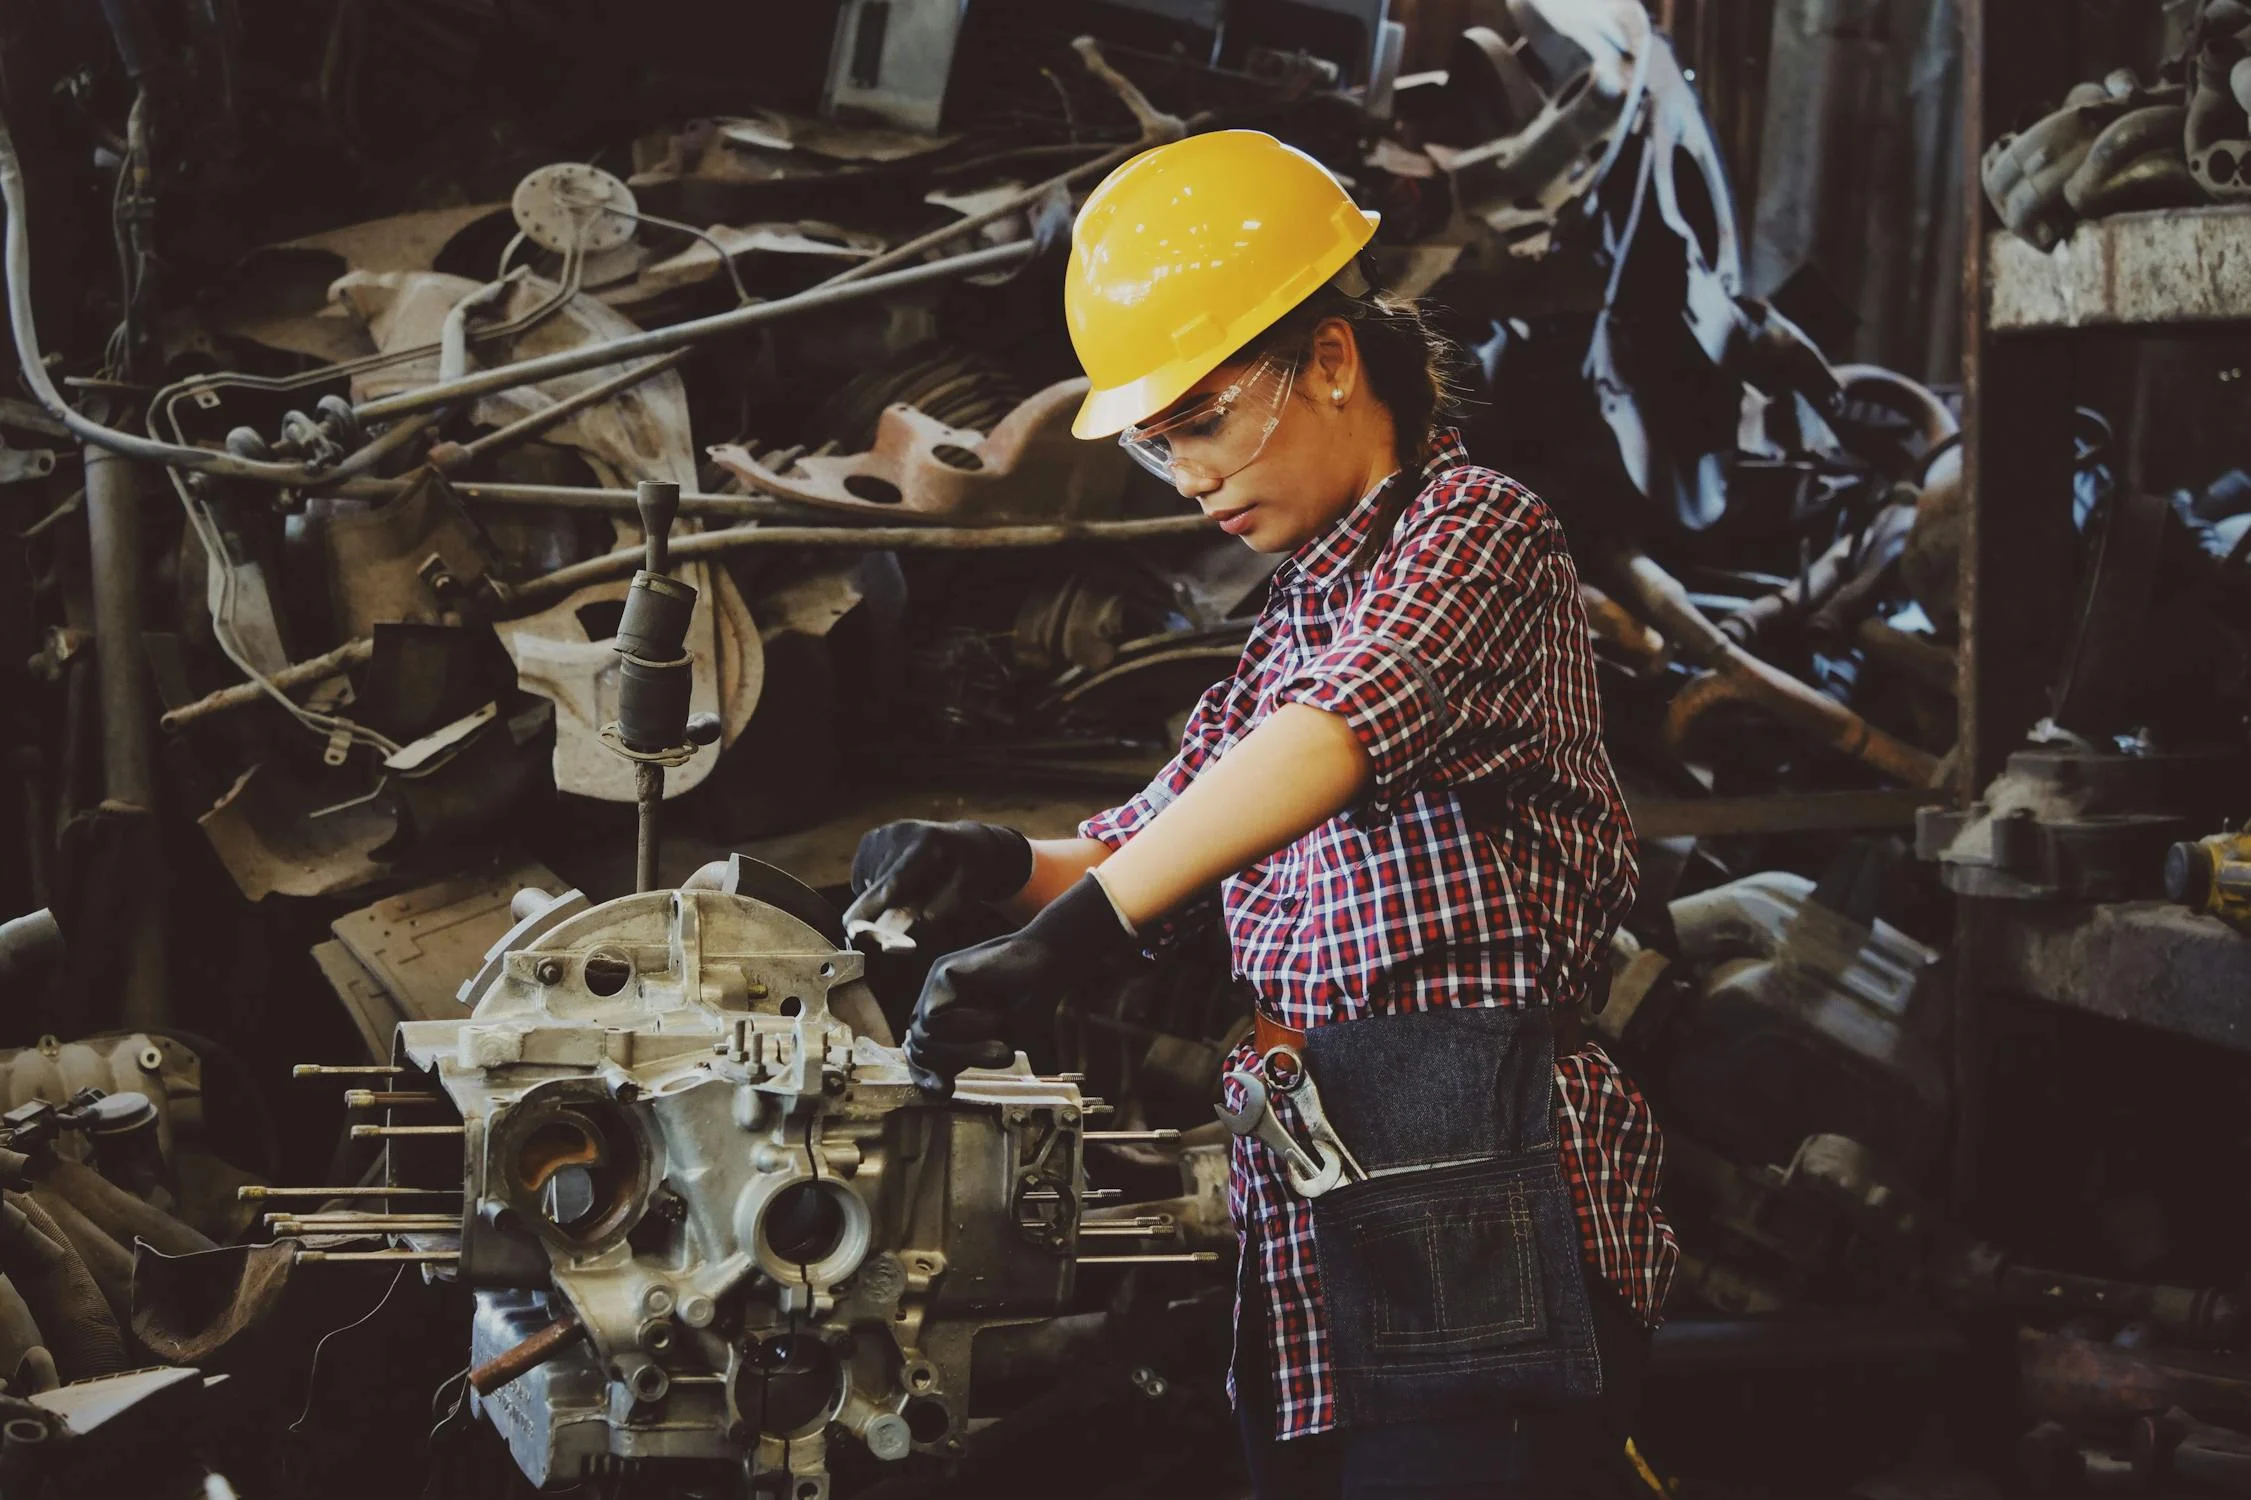
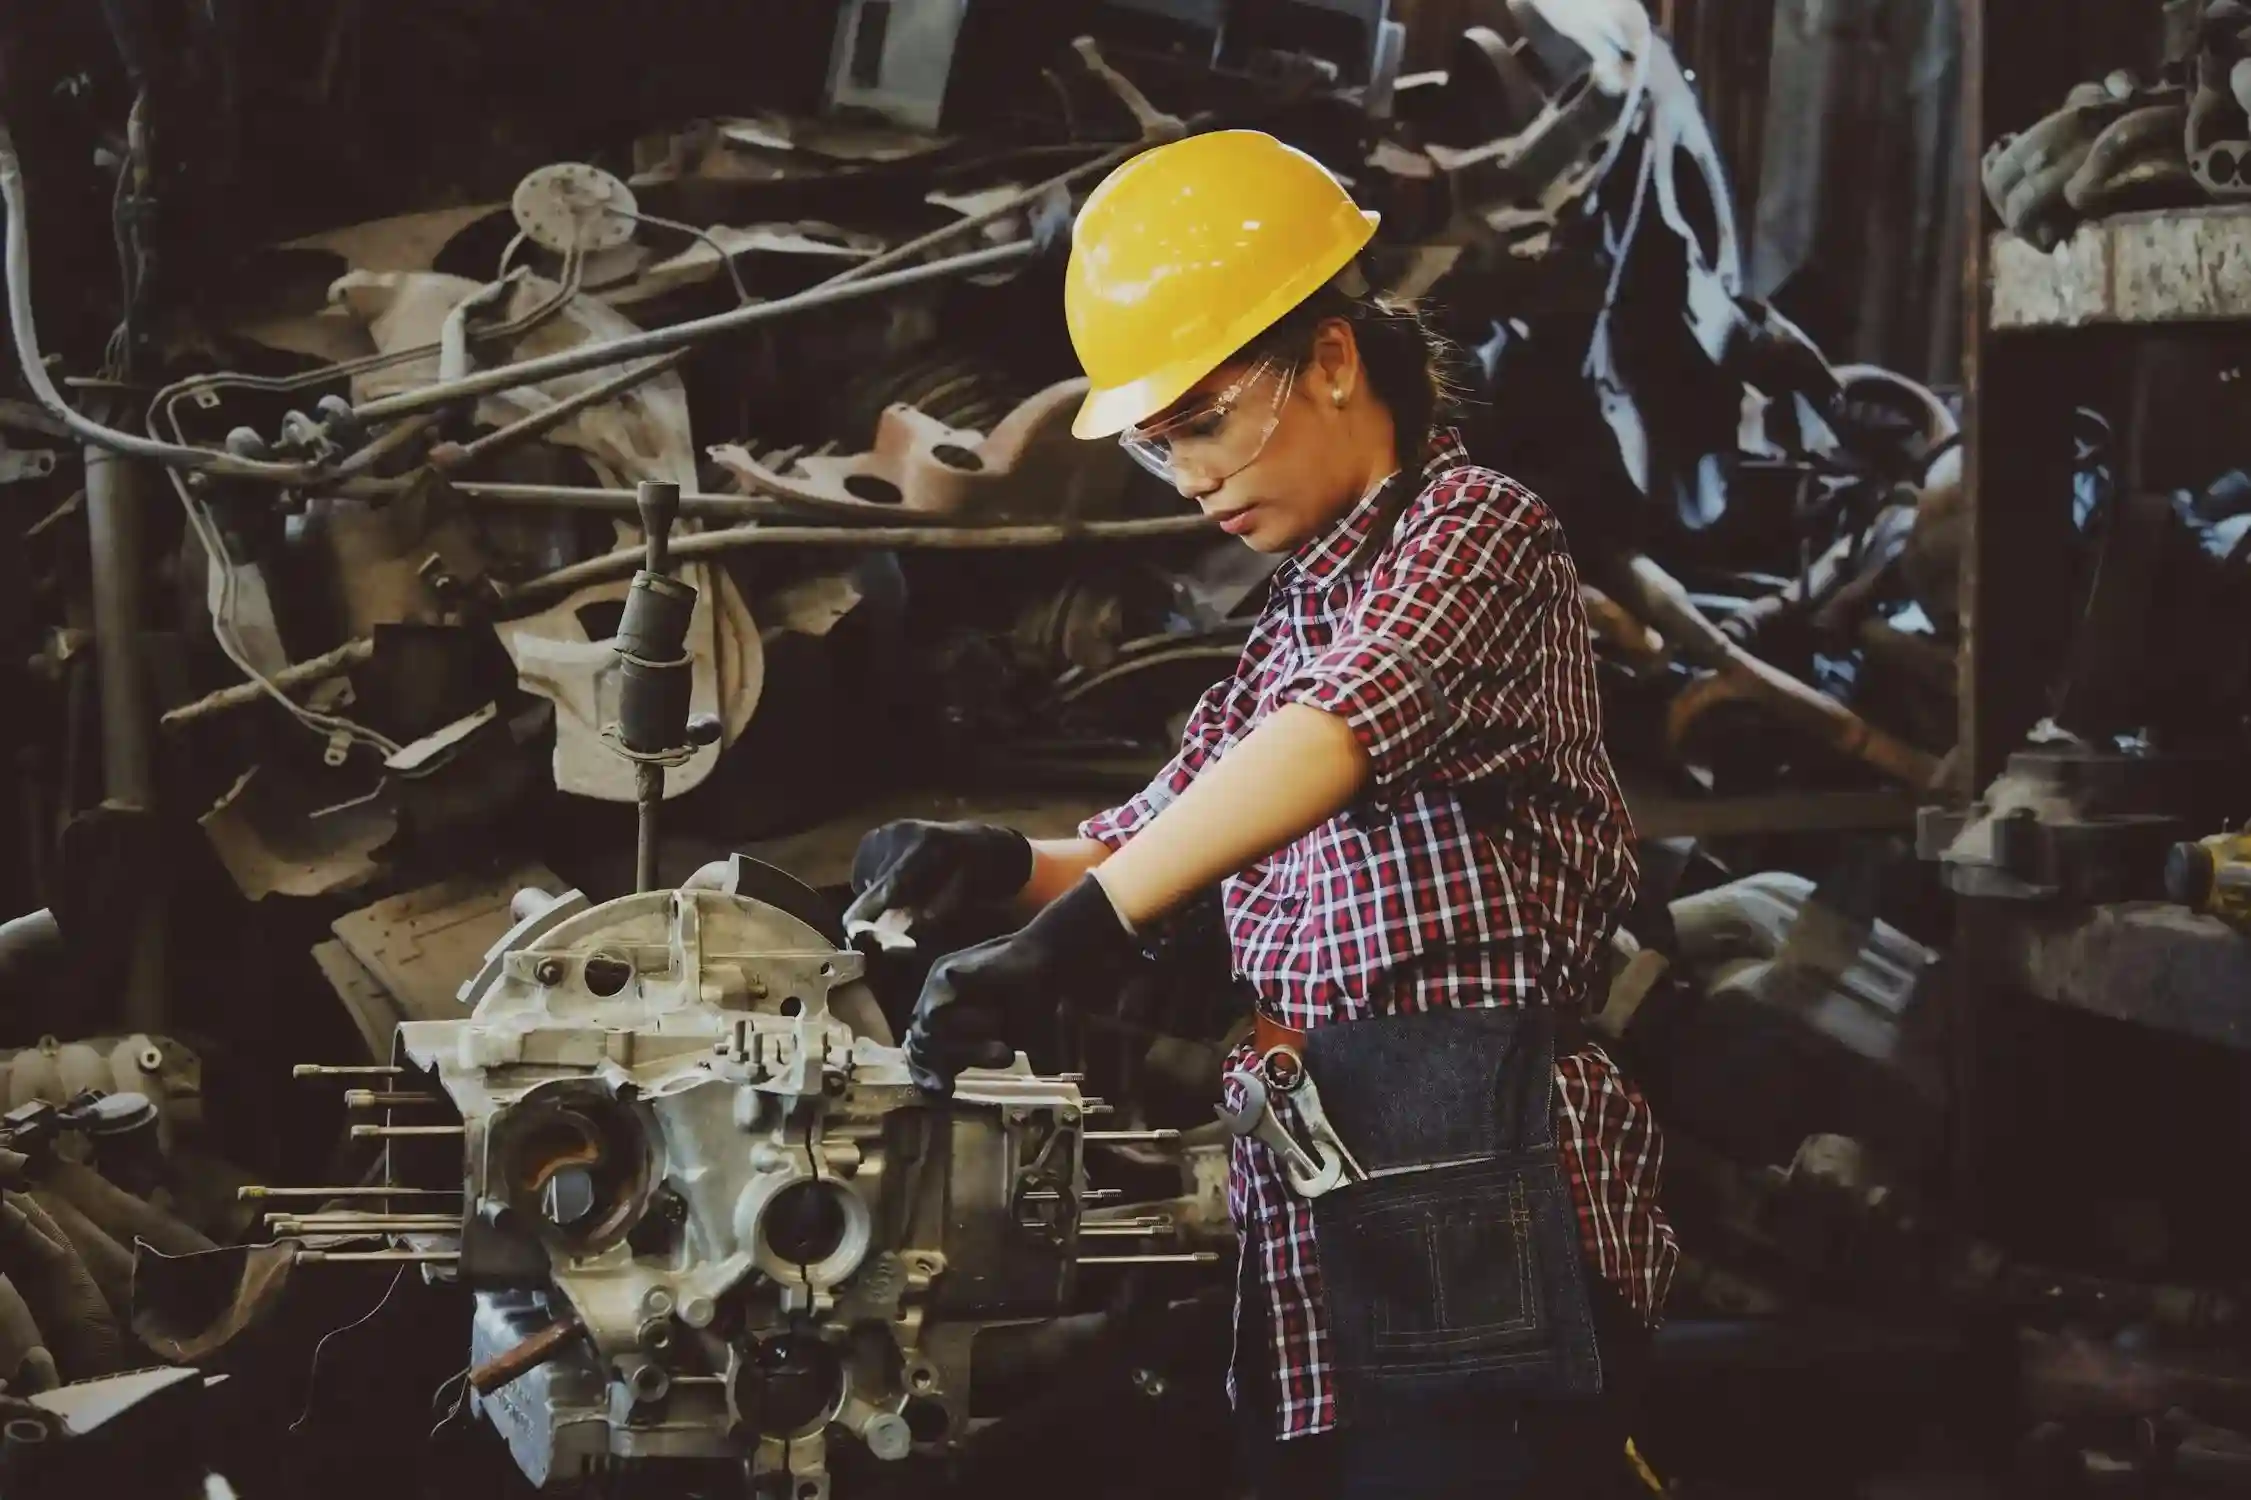
blog revalidate api and images compressed

diff --git a/src/sanity/env.ts b/src/sanity/env.ts
@@ -2,13 +2,13 @@ export const apiVersion =
   process.env.NEXT_PUBLIC_SANITY_API_VERSION || "2025-06-21";
 
 export const dataset = assertValue(
-  process.env.NEXT_PUBLIC_SANITY_DATASET,
-  "Missing environment variable: NEXT_PUBLIC_SANITY_DATASET"
+  process.env.SANITY_DATASET,
+  "Missing environment variable: SANITY_DATASET"
 );
 
 export const projectId = assertValue(
-  process.env.NEXT_PUBLIC_SANITY_PROJECT_ID,
-  "Missing environment variable: NEXT_PUBLIC_SANITY_PROJECT_ID"
+  process.env.SANITY_PROJECT_ID,
+  "Missing environment variable: SANITY_PROJECT_ID"
 );
 
 function assertValue<T>(v: T | undefined, errorMessage: string): T {

diff --git a/sanity.cli.ts b/sanity.cli.ts
@@ -4,7 +4,7 @@
  **/
 import { defineCliConfig } from "sanity/cli";
 
-const projectId = process.env.NEXT_PUBLIC_SANITY_PROJECT_ID;
-const dataset = process.env.NEXT_PUBLIC_SANITY_DATASET;
+const projectId = process.env.SANITY_PROJECT_ID;
+const dataset = process.env.SANITY_DATASET;
 
 export default defineCliConfig({ api: { projectId, dataset } });

diff --git a/src/app/api/revalidate/blog/route.ts b/src/app/api/revalidate/blog/route.ts
@@ -16,6 +16,7 @@ export async function POST(req: NextRequest) {
   try {
     if (slug) {
       revalidatePath(`/blog/${slug}`);
+      revalidatePath(`/blog`);
     } else {
       revalidatePath("/");
     }
